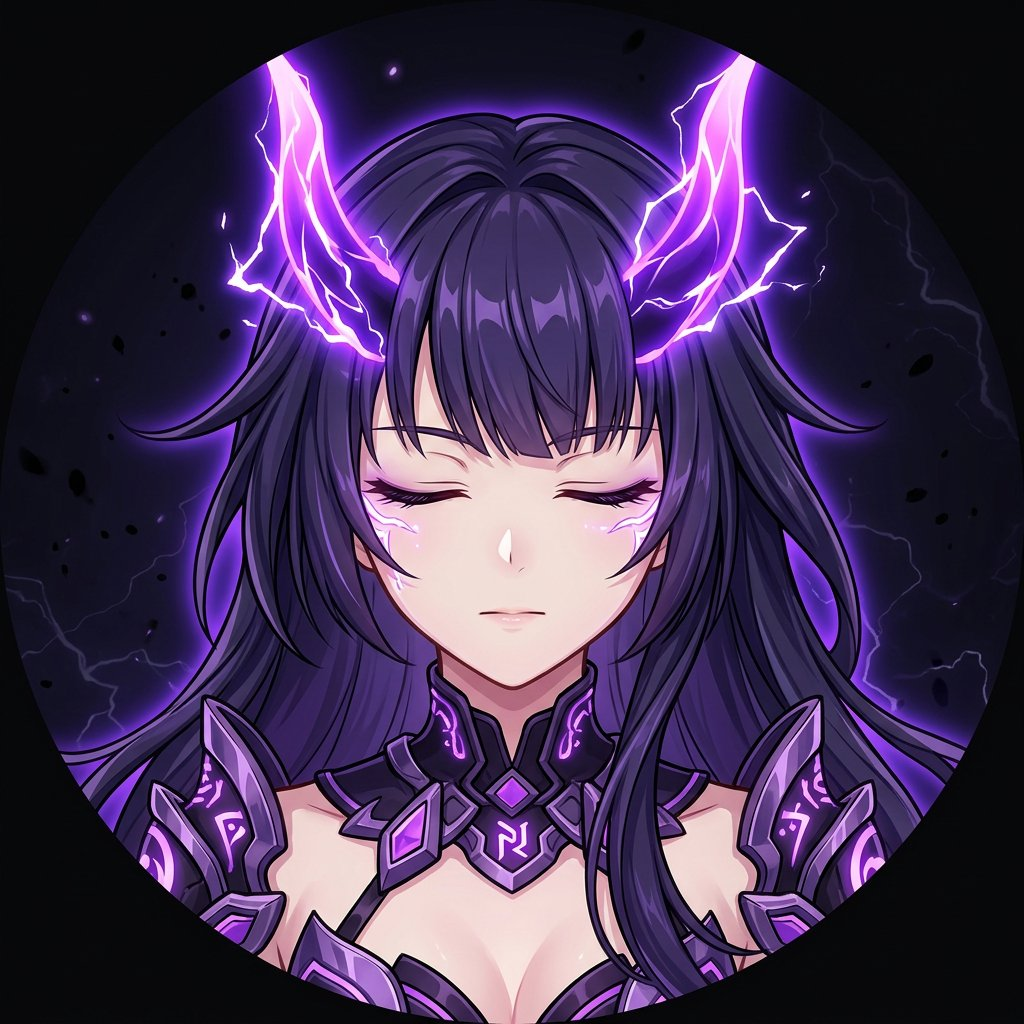
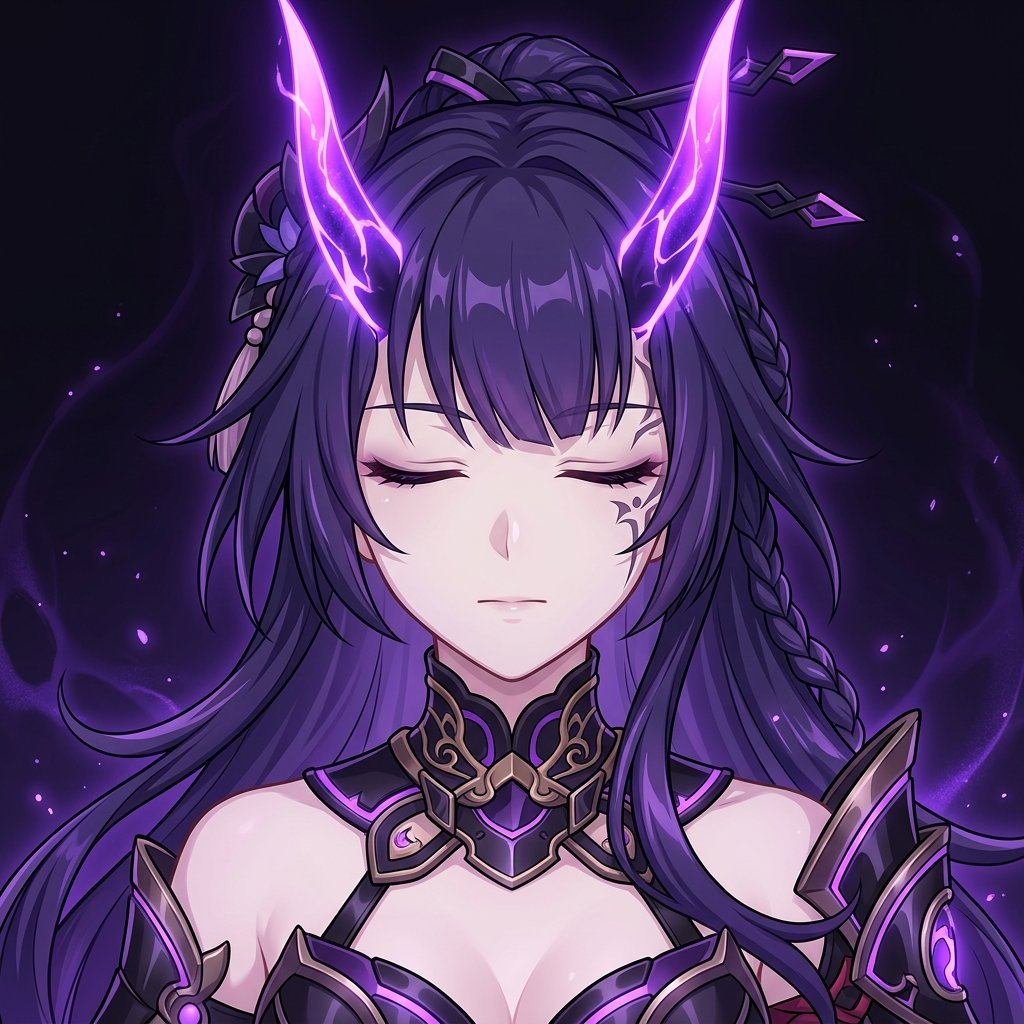
fix: header profile overlap + fresh images
- Fixed top-nav: removed mix-blend-mode:difference that caused overlap artifact
- New nav: solid 85% bg with blur 20px, fixed 64px height, no overlap
- Reduced avatar to 36px, subtle pulse, status dot
- Added padding-top to sections and hero-content to avoid nav covering
- Section-num moved to 88px top
- Regenerated profile-mei: closed eyes, horns, neutral face, serene
- Regenerated hero-mei with strong wind flowing hair + windSway animation
- Verified fresh images attached: hero-mei, evo-base (true 2017 first gen), evo-thunder, evo-origin, profile-mei
- Cleaned temp hero-mei-v2

diff --git a/style.css b/style.css
@@ -38,26 +38,41 @@ body.hover .cursor-dot{transform:scale(2.5); background:var(--accent); box-shado
 .loader-progress{height:100%; width:0%; background:var(--accent); box-shadow:0 0 10px var(--accent); transition:width 0.1s}
 .loader-specs{display:flex; gap:24px; justify-content:center; margin-top:24px; opacity:0.5}
 .loader-glitch{position:absolute; inset:0; background:linear-gradient(transparent 50%, rgba(139,92,246,0.02) 50%); background-size:100% 4px; pointer-events:none; opacity:0.3}
-/* NAV - WITH PROFILE */
-.top-nav{position:fixed; top:0; left:0; right:0; display:flex; justify-content:space-between; padding:16px 32px; z-index:100; mix-blend-mode:difference; backdrop-filter:blur(0px); border-bottom:1px solid rgba(255,255,255,0.04)}
-.nav-left,.nav-right{display:flex; gap:20px; align-items:center}
-.nav-profile{position:relative; width:42px; height:42px; border-radius:50%; flex-shrink:0}
-.nav-avatar{width:100%; height:100%; border-radius:50%; object-fit:cover; border:1px solid rgba(139,92,246,0.5); filter:grayscale(0.2) contrast(1.1)}
-.nav-avatar-ring{position:absolute; inset:-3px; border-radius:50%; border:1px solid var(--accent); opacity:0.6; animation:avatarPulse 2s infinite}
-.nav-avatar-status{position:absolute; bottom:0; right:0; width:10px; height:10px; background:#22C55E; border-radius:50%; border:2px solid var(--bg); box-shadow:0 0 8px #22C55E}
-@keyframes avatarPulse{0%{transform:scale(1); opacity:0.6} 50%{transform:scale(1.08); opacity:0.2} 100%{transform:scale(1); opacity:0.6}}
-.nav-brand{display:flex; flex-direction:column; gap:2px}
-.nav-logo{font-weight:700; font-size:12px; letter-spacing:0.1em}
-.nav-sub{opacity:0.5; font-size:9px}
-.nav-spec{color:var(--accent); font-weight:700}
-.nav-line{width:40px; height:1px; background:var(--fg); opacity:0.3}
-.nav-menu{opacity:0.8}
-.nav-profile-mini{display:flex; flex-direction:column; gap:2px; text-align:right; border-left:1px solid rgba(255,255,255,0.1); padding-left:16px}
-.mini-label{font-size:8px; opacity:0.4}
-.mini-val{font-size:9px; color:#22C55E; font-weight:700}
+/* NAV - WITH PROFILE - FIXED OVERLAP */
+.top-nav{
+  position:fixed; 
+  top:0; left:0; right:0; 
+  display:flex; 
+  justify-content:space-between; 
+  padding:12px 24px; 
+  z-index:500; 
+  background:rgba(5,5,7,0.85);
+  backdrop-filter:blur(20px) saturate(1.3);
+  -webkit-backdrop-filter:blur(20px) saturate(1.3);
+  border-bottom:1px solid rgba(255,255,255,0.06);
+  mix-blend-mode:normal;
+  height:64px;
+  box-sizing:border-box;
+}
+.nav-left,.nav-right{display:flex; gap:16px; align-items:center; height:100%}
+.nav-profile{position:relative; width:36px; height:36px; border-radius:50%; flex-shrink:0; overflow:visible}
+.nav-avatar{width:100%; height:100%; border-radius:50%; object-fit:cover; border:1.5px solid rgba(139,92,246,0.6); filter:contrast(1.05) saturate(1.05); display:block}
+.nav-avatar-ring{position:absolute; inset:-4px; border-radius:50%; border:1px solid var(--accent); opacity:0.4; animation:avatarPulse 2.5s infinite; pointer-events:none}
+.nav-avatar-status{position:absolute; bottom:-1px; right:-1px; width:9px; height:9px; background:#22C55E; border-radius:50%; border:2px solid var(--bg); box-shadow:0 0 6px #22C55E}
+@keyframes avatarPulse{0%{transform:scale(1); opacity:0.5} 50%{transform:scale(1.12); opacity:0.15} 100%{transform:scale(1); opacity:0.5}}
+.nav-brand{display:flex; flex-direction:column; gap:1px; justify-content:center}
+.nav-logo{font-weight:700; font-size:11px; letter-spacing:0.12em; line-height:1}
+.nav-sub{opacity:0.45; font-size:8px; line-height:1}
+.nav-spec{color:var(--accent); font-weight:700; font-size:10px}
+.nav-line{width:32px; height:1px; background:var(--fg); opacity:0.2}
+.nav-menu{opacity:0.7; font-size:9px}
+.nav-profile-mini{display:flex; flex-direction:column; gap:1px; text-align:right; border-left:1px solid rgba(255,255,255,0.08); padding-left:14px}
+.mini-label{font-size:7px; opacity:0.35; letter-spacing:0.15em}
+.mini-val{font-size:8px; color:#22C55E; font-weight:700; letter-spacing:0.1em}
 /* SECTIONS */
-.section{position:relative; min-height:100vh; width:100%; overflow:hidden; border-bottom:1px solid var(--line)}
-.section-num{position:absolute; top:80px; left:32px; color:var(--fg-dim); z-index:2}
+.section{position:relative; min-height:100vh; width:100%; overflow:hidden; border-bottom:1px solid var(--line); padding-top:64px; box-sizing:border-box}
+.section.hero{padding-top:0}
+.section-num{position:absolute; top:88px; left:32px; color:var(--fg-dim); z-index:2}
 .section-title{font-family:var(--display); font-size:clamp(48px,8vw,120px); line-height:0.9; letter-spacing:-0.04em; font-weight:800}
 .section-title .accent{color:var(--accent)}
 .section-title.large{font-size:clamp(32px,5vw,72px)}
@@ -69,7 +84,7 @@ body.hover .cursor-dot{transform:scale(2.5); background:var(--accent); box-shado
 @keyframes windSway{0%,100%{transform:scale(1.05) translateX(0) translateY(0)} 25%{transform:scale(1.06) translateX(-8px) translateY(-4px)} 50%{transform:scale(1.05) translateX(6px) translateY(2px)} 75%{transform:scale(1.07) translateX(-4px) translateY(6px)}}
 .hero-vignette{position:absolute; inset:0; background:radial-gradient(ellipse at center, transparent 30%, var(--bg) 85%), linear-gradient(0deg, var(--bg) 0%, transparent 50%, var(--bg) 100%)}
 .hero-grid{position:absolute; inset:0; background-image:linear-gradient(rgba(255,255,255,0.02) 1px, transparent 1px), linear-gradient(90deg, rgba(255,255,255,0.02) 1px, transparent 1px); background-size:80px 80px; opacity:0.3}
-.hero-content{position:relative; width:100%; height:100%; display:grid; grid-template-columns:280px 1fr 120px; padding:0 32px; align-items:center; z-index:2}
+.hero-content{position:relative; width:100%; height:100%; display:grid; grid-template-columns:280px 1fr 120px; padding:64px 32px 0 32px; align-items:center; z-index:2; box-sizing:border-box}
 .hero-left{display:flex; flex-direction:column; gap:16px}
 .hero-label{font-size:12px; font-weight:700}
 .hero-label.thin{font-weight:300; opacity:0.6}
